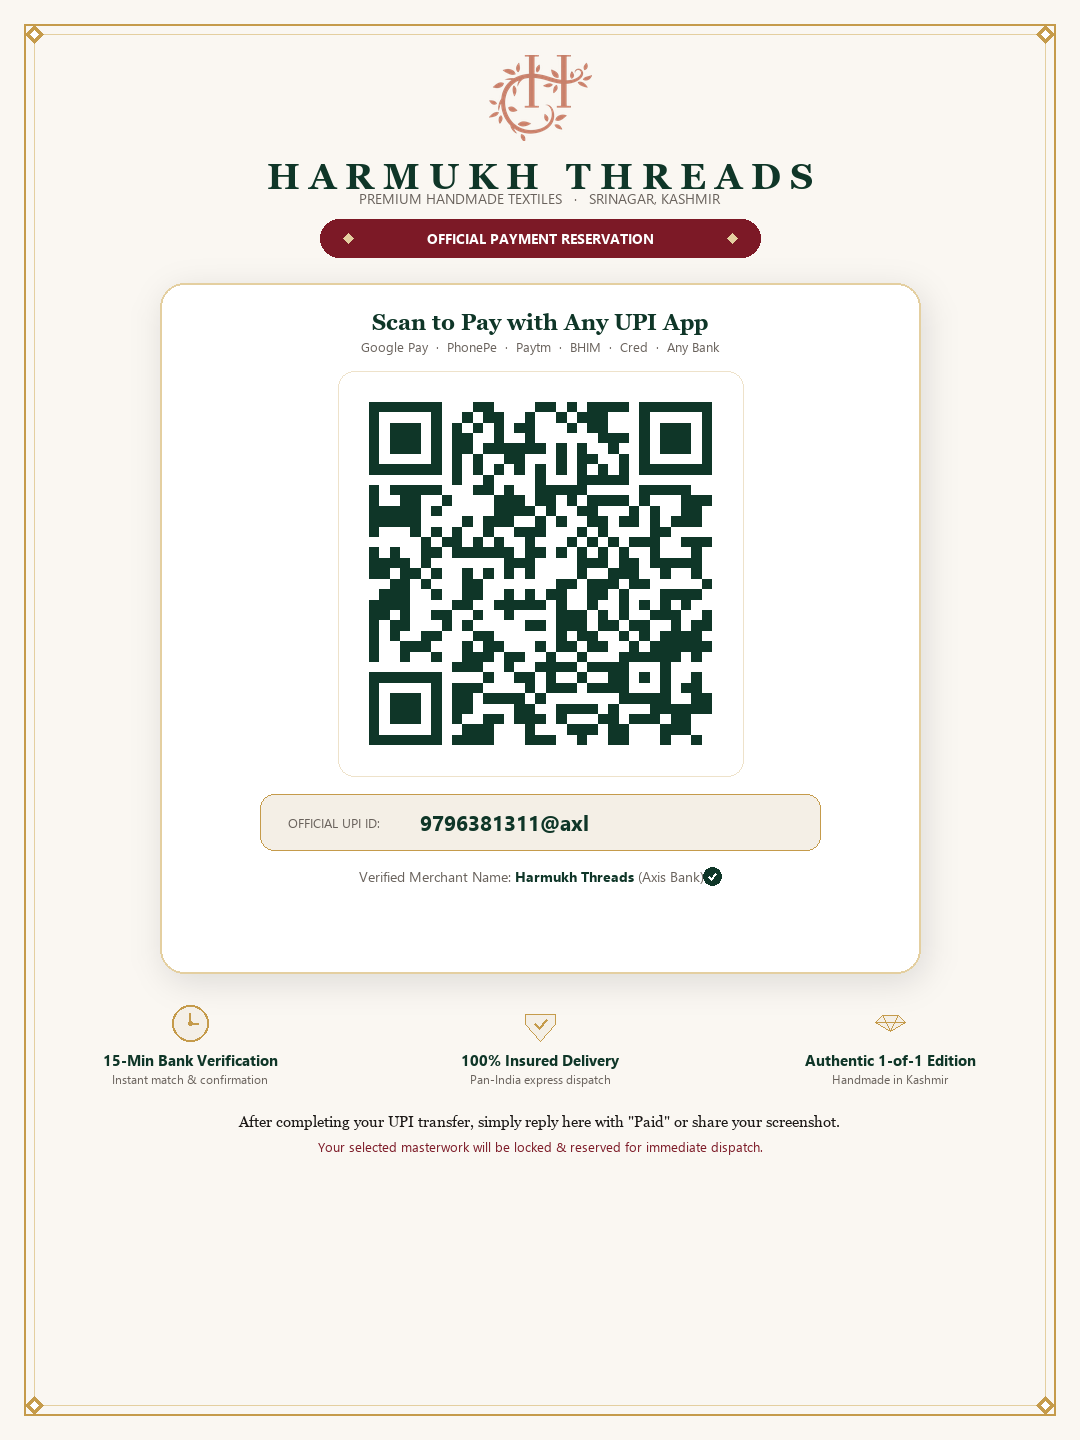
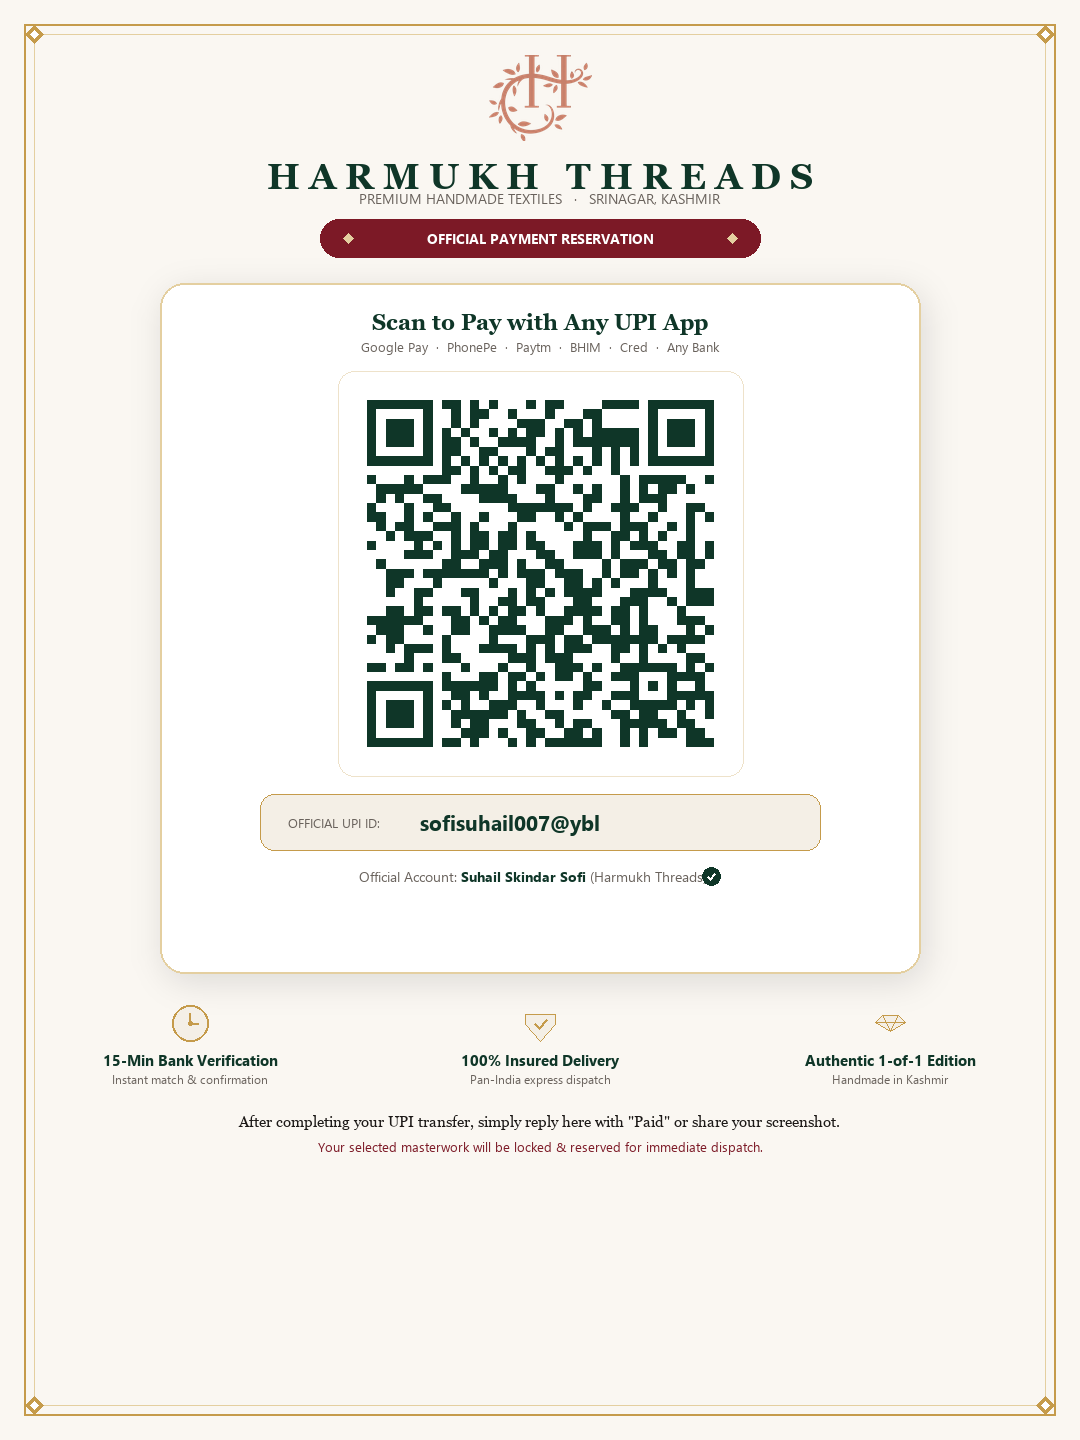
Switch UPI to sofisuhail007@ybl (Suhail Skindar Sofi) across store & payment flyer

Changed region(s): [[0.3361, 0.2812, 0.6722, 0.5312], [0.3361, 0.5625, 0.6417, 0.625]]

diff --git a/src/app/(storefront)/orders/pay/page.tsx b/src/app/(storefront)/orders/pay/page.tsx
@@ -127,7 +127,7 @@ function PayContent() {
 
           {/* UPI ID */}
           <div style={{ marginBottom: 'var(--space-md)' }}>
-            <div style={{ fontSize: '0.75rem', color: 'var(--on-surface-variant)', marginBottom: '4px' }}>UPI ID (Harmukh Threads)</div>
+            <div style={{ fontSize: '0.75rem', color: 'var(--on-surface-variant)', marginBottom: '4px' }}>UPI ID ({HARMUKH_UPI_NAME})</div>
             <div style={{
               display: 'inline-flex', alignItems: 'center', gap: '8px',
               background: 'var(--surface-container-low)', padding: '8px 16px',

diff --git a/src/lib/articles.ts b/src/lib/articles.ts
@@ -218,8 +218,8 @@ export const ARTICLES_MAP: Record<string, ArticleInfo> = {
 };
 
 export const HARMUKH_WHATSAPP_NUMBER = '918491006127';
-export const HARMUKH_UPI_ID = '9796381311@axl';
-export const HARMUKH_UPI_NAME = 'Harmukh Threads';
+export const HARMUKH_UPI_ID = 'sofisuhail007@ybl';
+export const HARMUKH_UPI_NAME = 'Suhail Skindar Sofi';
 
 export function getArticleBySlug(slug: string): ArticleInfo | null {
   return ARTICLES_MAP[slug] || null;
